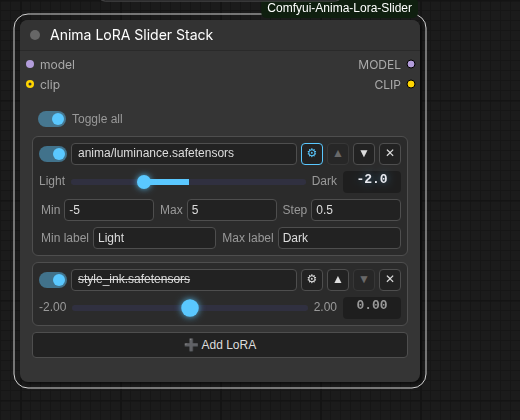
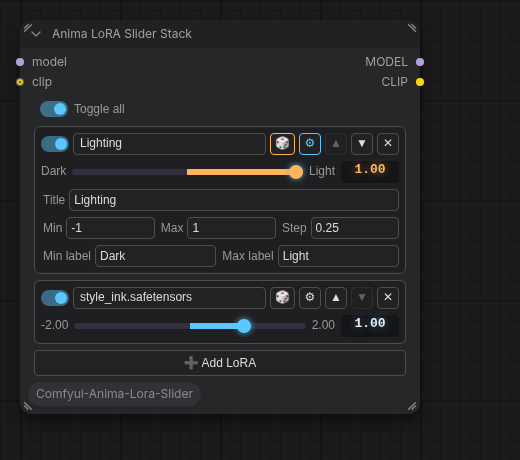
Add per-row title and random strength toggle
Each LoRA row can now have an optional title, set in the row's settings,
which is shown instead of the long file path (the path stays in the
tooltip).

A new dice toggle rolls a random strength between min and max, on the
slider's step grid, for every queued generation. The roll happens in the
widget's beforeQueued hook, so the value used is shown on the slider and
saved in both the prompt and the workflow embedded in the image.

Claude-Session: https://claude.ai/code/session_017CBytvpZbfo7cEKxYNQRwR

Changed region(s): [[0.0, 0.031, 0.8308, 0.9286], [0.0308, 0.0, 0.8, 0.0929]]

diff --git a/js/anima_lora_slider.js b/js/anima_lora_slider.js
@@ -8,7 +8,9 @@ const STACK_WIDGET = "lora_stack";
 const DEFAULT_ROW = {
     on: true,
     lora: null,
+    title: "",       // shown instead of the LoRA path when set
     strength: 1,
+    random: false,   // roll a new strength for every queued generation
     min: -2,
     max: 2,
     step: 0.05,
@@ -29,7 +31,8 @@ const H = {
     configLine: 24,
     add: 26,
 };
-const CONFIG_H = H.configLine * 2 + H.rowGap;
+const CONFIG_LINES = 3;
+const CONFIG_H = H.configLine * CONFIG_LINES + H.rowGap * (CONFIG_LINES - 1);
 // The frontend insets DOM widgets by this much on every side, taking it out of their height.
 const WIDGET_MARGIN = 10;
 const MIN_NODE_WIDTH = 400;
@@ -45,6 +48,7 @@ if (!document.getElementById(STYLE_ID)) {
         .als-root {
             --als-accent: #5ac8ff;
             --als-track: #303040;
+            --als-roll: #ffb45a;
             --als-text: var(--input-text, #ddd);
             --als-muted: var(--descrip-text, #999);
             --als-bg: var(--comfy-input-bg, #222);
@@ -115,7 +119,8 @@ if (!document.getElementById(STYLE_ID)) {
             text-overflow: ellipsis;
         }
         .als-name.als-none { color: var(--als-muted); font-style: italic; }
-        .als-root button.als-gear.als-active { border-color: var(--als-accent); color: var(--als-accent); }
+        .als-root button.als-active { border-color: var(--als-accent); color: var(--als-accent); }
+        .als-root button.als-dice.als-active { border-color: var(--als-roll); color: var(--als-roll); }
 
         /* on/off switch */
         .als-switch {
@@ -176,6 +181,8 @@ if (!document.getElementById(STYLE_ID)) {
         }
         .als-value:hover { background: rgba(90, 190, 255, 0.12); }
         .als-row.als-zero .als-value { color: var(--als-muted); text-shadow: none; }
+        .als-row.als-random .als-value { color: var(--als-roll); text-shadow: 0 0 8px rgba(255, 180, 90, 0.55); }
+        .als-row.als-random .als-range { --als-accent: var(--als-roll); }
         .als-row.als-zero .als-name { text-decoration: line-through; }
         input.als-value-edit {
             cursor: text;
@@ -234,7 +241,7 @@ if (!document.getElementById(STYLE_ID)) {
         .als-config {
             height: ${CONFIG_H}px;
             display: grid;
-            grid-template-rows: repeat(2, ${H.configLine}px);
+            grid-template-rows: repeat(${CONFIG_LINES}, ${H.configLine}px);
             row-gap: ${H.rowGap}px;
             padding-top: 0;
         }
@@ -341,10 +348,22 @@ function snap(v, row) {
     return clamp(parseFloat(snapped.toFixed(10)), row.min, row.max);
 }
 
+// A random strength on the same grid the slider snaps to (see `snap`), min and max included.
+function rollStrength(row) {
+    const base = row.min <= 0 && row.max >= 0 ? 0 : row.min;
+    const kMin = Math.ceil((row.min - base) / row.step - 1e-9);
+    const kMax = Math.floor((row.max - base) / row.step + 1e-9);
+    if (kMax < kMin) return clamp(base, row.min, row.max);
+    const k = kMin + Math.floor(Math.random() * (kMax - kMin + 1));
+    return clamp(parseFloat((base + k * row.step).toFixed(10)), row.min, row.max);
+}
+
 function normalizeRow(raw) {
     const row = { ...DEFAULT_ROW, ...(raw && typeof raw === "object" ? raw : {}) };
     row.on = row.on !== false;
     row.lora = typeof row.lora === "string" && row.lora ? row.lora : null;
+    row.title = row.title == null ? "" : String(row.title);
+    row.random = row.random === true;
     row.min = num(row.min, DEFAULT_ROW.min);
     row.max = num(row.max, DEFAULT_ROW.max);
     if (row.min > row.max) [row.min, row.max] = [row.max, row.min];
@@ -535,12 +554,13 @@ function createStack(node) {
         const top = el("div", "als-top");
         const sw = el("div", "als-switch", { title: "Enable / disable this LoRA" });
         const name = el("button", "als-name");
-        const gear = el("button", "als-gear", { textContent: "⚙", title: "Configure slider" });
+        const dice = el("button", "als-dice", { textContent: "🎲" });
+        const gear = el("button", "als-gear", { textContent: "⚙", title: "Configure title and slider" });
         const up = el("button", "", { textContent: "▲", title: "Move up", disabled: index === 0 });
         const down = el("button", "", { textContent: "▼", title: "Move down", disabled: index === rows.length - 1 });
         const del = el("button", "", { textContent: "✕", title: "Remove" });
         gear.classList.toggle("als-active", open);
-        top.append(sw, name, gear, up, down, del);
+        top.append(sw, name, dice, gear, up, down, del);
 
         // — slider line: min label, range, max label, value —
         const line = el("div", "als-slider-line");
@@ -555,12 +575,18 @@ function createStack(node) {
             const dec = decimalsOf(row.step);
             rowEl.classList.toggle("als-off", !row.on);
             rowEl.classList.toggle("als-zero", row.strength === 0);
+            rowEl.classList.toggle("als-random", row.random);
             rowEl.title = row.strength === 0 ? "Strength is 0 — this LoRA will not be loaded" : "";
             sw.classList.toggle("als-on", row.on);
 
-            name.textContent = row.lora ?? "Click to choose a LoRA";
-            name.title = row.lora ?? "";
+            name.textContent = row.lora ? row.title || row.lora : "Click to choose a LoRA";
+            name.title = row.lora && row.title ? `${row.title} — ${row.lora}` : row.lora ?? "";
             name.classList.toggle("als-none", !row.lora);
+
+            dice.classList.toggle("als-active", row.random);
+            dice.title = row.random
+                ? "Random is on: a new strength between min and max (on the step grid) is rolled for every generation. Click to turn off."
+                : "Roll a random strength for every generation";
 
             endMin.textContent = row.labelMin || row.min.toFixed(dec);
             endMax.textContent = row.labelMax || row.max.toFixed(dec);
@@ -585,6 +611,7 @@ function createStack(node) {
         }
 
         sw.addEventListener("click", () => { row.on = !row.on; refresh(); updateHeader(); });
+        dice.addEventListener("click", () => { row.random = !row.random; refresh(); });
         name.addEventListener("click", () => {
             showLoraPicker(name, row.lora, (lora) => { row.lora = lora; refresh(); });
         });
@@ -676,18 +703,21 @@ function createStack(node) {
             }),
             field("Min label", "text", "labelMin", (i) => { row.labelMin = i.value; }),
             field("Max label", "text", "labelMax", (i) => { row.labelMax = i.value; }),
+            field("Title", "text", "title", (i) => { row.title = i.value.trim(); }),
         ];
+        fields.at(-1).input.placeholder = "Optional name shown instead of the file path";
 
         // Reflect corrections (e.g. min pushed up to max) back into the inputs.
         function syncInputs() {
             for (const f of fields) if (document.activeElement !== f.input) f.input.value = row[f.key];
         }
 
-        const line1 = el("div", "als-config-line");
-        const line2 = el("div", "als-config-line");
-        for (const f of fields.slice(0, 3)) line1.append(f.lab, f.input);
-        for (const f of fields.slice(3)) line2.append(f.lab, f.input);
-        config.append(line1, line2);
+        const lines = [fields.slice(5), fields.slice(0, 3), fields.slice(3, 5)].map((group) => {
+            const line = el("div", "als-config-line");
+            for (const f of group) line.append(f.lab, f.input);
+            return line;
+        });
+        config.append(...lines);
         return config;
     }
 
@@ -698,9 +728,23 @@ function createStack(node) {
         resizeNode();
     }
 
+    // Called once per queued generation, before the prompt is built, so the rolled values are
+    // what gets sent, shown on the sliders, and saved in the generated image's workflow.
+    function rollRandom() {
+        let changed = false;
+        for (const row of rows) {
+            if (row.on && row.random) {
+                row.strength = rollStrength(row);
+                changed = true;
+            }
+        }
+        if (changed) render();
+    }
+
     return {
         element: root,
         render,
+        rollRandom,
         totalHeight,
         getValue: () => ({ loras: rows.map((r) => ({ ...r })) }),
         setValue: (v) => {
@@ -728,7 +772,7 @@ app.registerExtension({
             const stack = createStack(this);
             this._alsStack = stack;
             const height = () => stack.totalHeight() + WIDGET_MARGIN * 2;
-            this.addDOMWidget(STACK_WIDGET, "anima_lora_stack", stack.element, {
+            const widget = this.addDOMWidget(STACK_WIDGET, "anima_lora_stack", stack.element, {
                 getValue: stack.getValue,
                 setValue: stack.setValue,
                 getMinHeight: height,
@@ -736,6 +780,7 @@ app.registerExtension({
                 getHeight: height,
                 margin: WIDGET_MARGIN,
             });
+            widget.beforeQueued = () => stack.rollRandom();
             stack.render();
             return r;
         };

diff --git a/nodes.py b/nodes.py
@@ -80,6 +80,11 @@ def _to_float(value, default=None):
         return default
 
 
+def _describe(row):
+    title = str(row.get("title") or "").strip()
+    return f"{title} ({row['lora']})" if title else row["lora"]
+
+
 def _iter_rows(kwargs):
     """Yields the LoRA row dicts sent by the UI's stack widget, in display order."""
     stack = kwargs.get(STACK_INPUT)
@@ -93,9 +98,12 @@ class AnimaLoraSliderStack:
     """Applies any number of LoRAs to a model (and optionally clip), each with its own slider.
 
     The rows are built by the frontend and arrive in a single `lora_stack` input:
-        {"loras": [{"on": bool, "lora": str, "strength": float, "min": float, "max": float,
-                    "step": float, "labelMin": str, "labelMax": str}, ...]}
+        {"loras": [{"on": bool, "lora": str, "title": str, "strength": float, "random": bool,
+                    "min": float, "max": float, "step": float, "labelMin": str, "labelMax": str},
+                   ...]}
     A row is skipped when it is toggled off, has no LoRA picked, or its strength is 0.
+    `title` and the slider settings are display-only. With `random` on, the frontend rolls a new
+    `strength` before every queued generation, so the backend only ever sees a plain strength.
     """
 
     @classmethod
@@ -115,8 +123,9 @@ class AnimaLoraSliderStack:
     FUNCTION = "load_loras"
     CATEGORY = "loaders"
     DESCRIPTION = (
-        "Stack any number of LoRAs, each with a configurable slider (min, max, step and end "
-        "labels). LoRAs whose slider sits at 0 are not loaded."
+        "Stack any number of LoRAs, each with an optional title and a configurable slider (min, "
+        "max, step and end labels) that can roll a random value for every generation. LoRAs whose "
+        "slider sits at 0 are not loaded."
     )
 
     def __init__(self):
@@ -142,7 +151,7 @@ class AnimaLoraSliderStack:
 
             lora_name = get_lora_by_filename(row["lora"], lora_paths)
             if lora_name is None:
-                logging.warning(f"{LOG_PREFIX} LoRA not found, skipping: {row['lora']}")
+                logging.warning(f"{LOG_PREFIX} LoRA not found, skipping: {_describe(row)}")
                 continue
 
             lora_path = folder_paths.get_full_path("loras", lora_name)

diff --git a/README.md b/README.md
@@ -24,9 +24,14 @@ The node appears as **Anima LoRA Slider Stack** under `loaders`.
 - **➕ Add LoRA** opens a searchable list of your `models/loras` files. Add as many as you like.
 - Each row has:
   - an **on/off switch**, and the **LoRA name** (click it to pick a different file)
-  - **⚙** opens the slider's settings: **Min**, **Max**, **Step**, **Min label** and **Max label**
-    (for a luminance LoRA you might use `Light` and `Dark`). Without labels, the ends show the
-    min/max numbers.
+  - **🎲 random**: when on, a new strength is rolled for every generation, anywhere between min
+    and max on the slider's step grid (see below)
+  - **⚙** opens the row's settings:
+    - **Title**: an optional name shown instead of the file path, e.g. `Lighting` for
+      `Ai\Stablediffusion\Sliders\12800_lighting_lora_slider_epoch5.safetensors`. Hover the
+      name to see the full path.
+    - **Min**, **Max**, **Step**, **Min label** and **Max label** for the slider (for a luminance
+      LoRA you might use `Dark` and `Light`). Without labels, the ends show the min/max numbers.
   - **▲ / ▼** to reorder rows (LoRAs are applied top to bottom), **✕** to remove a row
 - Using the slider:
   - drag it, or scroll over it to step by one **Step**
@@ -37,6 +42,17 @@ The node appears as **Anima LoRA Slider Stack** under `loaders`.
 - The slider's step grid is anchored at 0 whenever 0 is inside the range, so you can always
   drag exactly back to 0.
 - The same strength is applied to both model and clip.
+
+### Random strength
+
+With 🎲 on, the row turns amber and rolls a new strength each time you queue a generation,
+once per image when the batch count is above 1. The roll uses the same step grid as the slider,
+so with min `-1`, max `1` and step `0.25` you get one of `-1, -0.75, … 0.75, 1`. A roll of 0
+skips that LoRA for that image, just as a slider at 0 does.
+
+The slider shows the value used for the most recently queued generation. That value is also
+stored in the image's embedded prompt and workflow, so loading a generated image shows exactly
+what was used. Turn 🎲 off on the loaded workflow to keep that value.
 - **Toggle all** switches every row on or off at once.
 
 New rows start with min `-2`, max `2`, step `0.05` and strength `1`.
